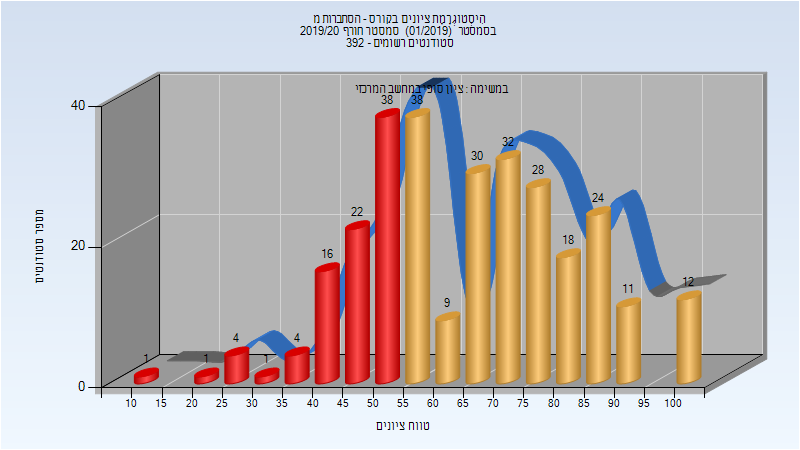
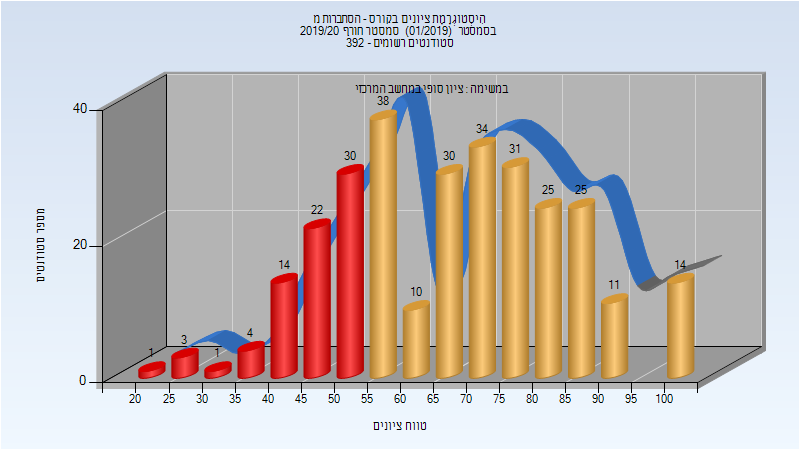
Deploy michael-maltsev/technion-histograms to github.com/michael-maltsev/technion-histograms.git:gh-pages

diff --git a/014881/index.html b/014881/index.html
@@ -391,5 +391,31 @@
 </tr>
 </tbody>
 </table>
+<h3>סופי מועד א'</h3>
+<p><img src="201902/Final_A.png" alt="201902 Final_A" /></p>
+<table>
+<thead>
+<tr>
+<th>סטודנטים</th>
+<th>עברו/נכשלו</th>
+<th>אחוז עוברים</th>
+<th>ציון מינימלי</th>
+<th>ציון מקסימלי</th>
+<th>ממוצע</th>
+<th>חציון</th>
+</tr>
+</thead>
+<tbody>
+<tr>
+<td>21</td>
+<td>16/5</td>
+<td>76</td>
+<td>32</td>
+<td>102</td>
+<td>73.19</td>
+<td>77</td>
+</tr>
+</tbody>
+</table>
   </body>
 </html>

diff --git a/094412/index.html b/094412/index.html
@@ -1172,13 +1172,13 @@
 </thead>
 <tbody>
 <tr>
-<td>289</td>
-<td>202/87</td>
-<td>70</td>
-<td>13</td>
+<td>293</td>
+<td>218/75</td>
+<td>74</td>
+<td>23</td>
 <td>100</td>
-<td>65.779</td>
-<td>65</td>
+<td>67.437</td>
+<td>67</td>
 </tr>
 </tbody>
 </table>

diff --git a/014881/README.md b/014881/README.md
@@ -112,3 +112,11 @@
 | גנאים עלאא | מתרגל |
 | בלסברג עליזה | סגל מנהלי - עם הרשאות מרצה אחראי |
 
+### סופי מועד א'
+
+![201902 Final_A](201902/Final_A.png)
+
+| סטודנטים | עברו/נכשלו | אחוז עוברים | ציון מינימלי | ציון מקסימלי | ממוצע | חציון |
+| ---- | ---- | ---- | ---- | ---- | ---- | ---- |
+| 21 | 16/5 | 76 | 32 | 102 | 73.19 | 77 |
+

diff --git a/094412/README.md b/094412/README.md
@@ -368,7 +368,7 @@
 
 | סטודנטים | עברו/נכשלו | אחוז עוברים | ציון מינימלי | ציון מקסימלי | ממוצע | חציון |
 | ---- | ---- | ---- | ---- | ---- | ---- | ---- |
-| 289 | 202/87 | 70 | 13 | 100 | 65.779 | 65 |
+| 293 | 218/75 | 74 | 23 | 100 | 67.437 | 67 |
 
 ## אביב 2020
 
